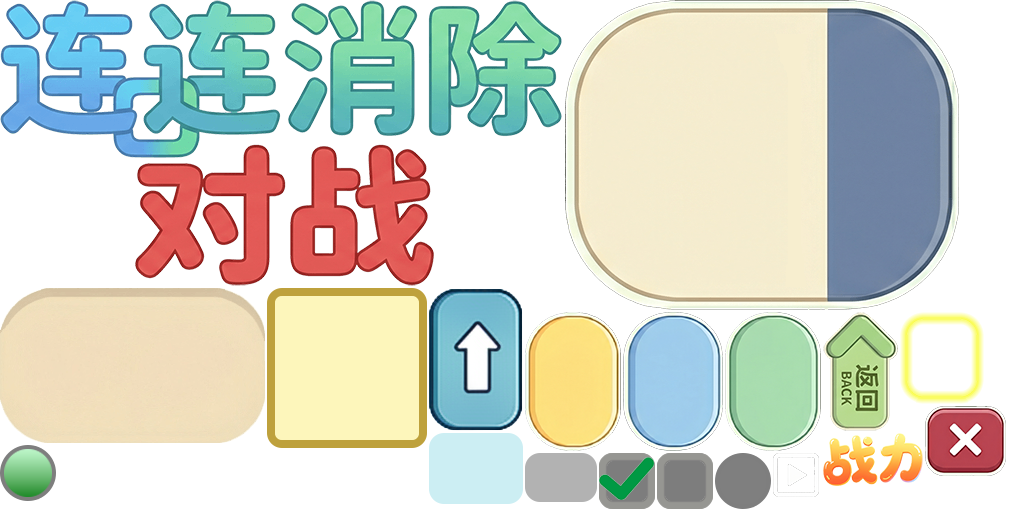
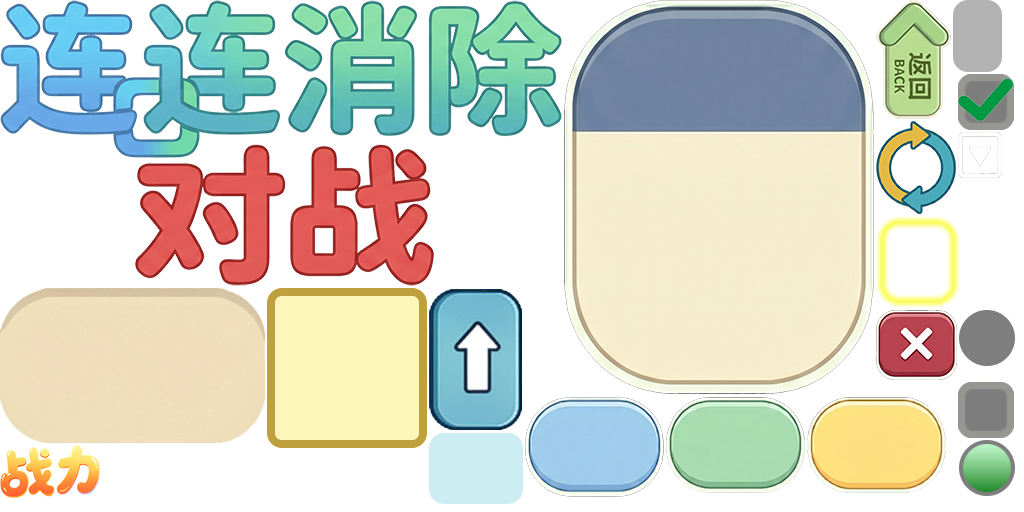
feat(game10002): 添加“打乱”按钮组件及相关功能
- 在公共资源中新增了upset.png图片资源
- 新增CompBtnProp按钮组件，包含图标和标题文本
- game10002包中新增CompBtnProp组件引用
- 在游戏主界面CompGameMain中添加UI_BTN_UPSET按钮及点击事件绑定
- 实现FGUICompGameMain和CompGameMain中的onBtnUpset方法框架
- 更新相关二进制资源文件以支持新组件和资源

diff --git a/assets/scripts/fgui/game10002/FGUICompGameMain.ts b/assets/scripts/fgui/game10002/FGUICompGameMain.ts
@@ -35,6 +35,7 @@ export default class FGUICompGameMain extends fgui.GComponent {
 	public UI_BTN_TALK:fgui.GButton;
 	public UI_COMP_CLOCK:FGUICompTimeLeft;
 	public UI_COMP_FINSH_INFO:FGUICompFinshInfo;
+	public UI_BTN_UPSET:fgui.GButton;
 	public static URL:string = "ui://2zsfe53xln74p";
 
 	public static packageName:string = "game10002";
@@ -104,6 +105,8 @@ export default class FGUICompGameMain extends fgui.GComponent {
 		this.UI_BTN_TALK.onClick(this.onBtnTalk, this);
 		this.UI_COMP_CLOCK = <FGUICompTimeLeft>(this.getChildAt(18));
 		this.UI_COMP_FINSH_INFO = <FGUICompFinshInfo>(this.getChildAt(19));
+		this.UI_BTN_UPSET = <fgui.GButton>(this.getChildAt(20));
+		this.UI_BTN_UPSET.onClick(this.onBtnUpset, this);
 	}
 	scheduleOnce(callback: () => void, delay: number):void{};
 	unscheduleAllCallbacks():void{};
@@ -118,5 +121,6 @@ export default class FGUICompGameMain extends fgui.GComponent {
 	onBtnContinue():void{};
 	onBtnReady():void{};
 	onBtnTalk():void{};
+	onBtnUpset():void{};
 }
 fgui.UIObjectFactory.setExtension(FGUICompGameMain.URL, FGUICompGameMain);

diff --git a/assets/scripts/games/game10002/view/game/comp/CompGameMain.ts b/assets/scripts/games/game10002/view/game/comp/CompGameMain.ts
@@ -1447,5 +1447,9 @@ export class CompGameMain extends FGUICompGameMain {
     getCompMap(): CompMap {
         return this.UI_COMP_MAP as CompMap;
     }
+
+    onBtnUpset(): void {
+        
+    }
 }
 fgui.UIObjectFactory.setExtension(CompGameMain.URL, CompGameMain);
